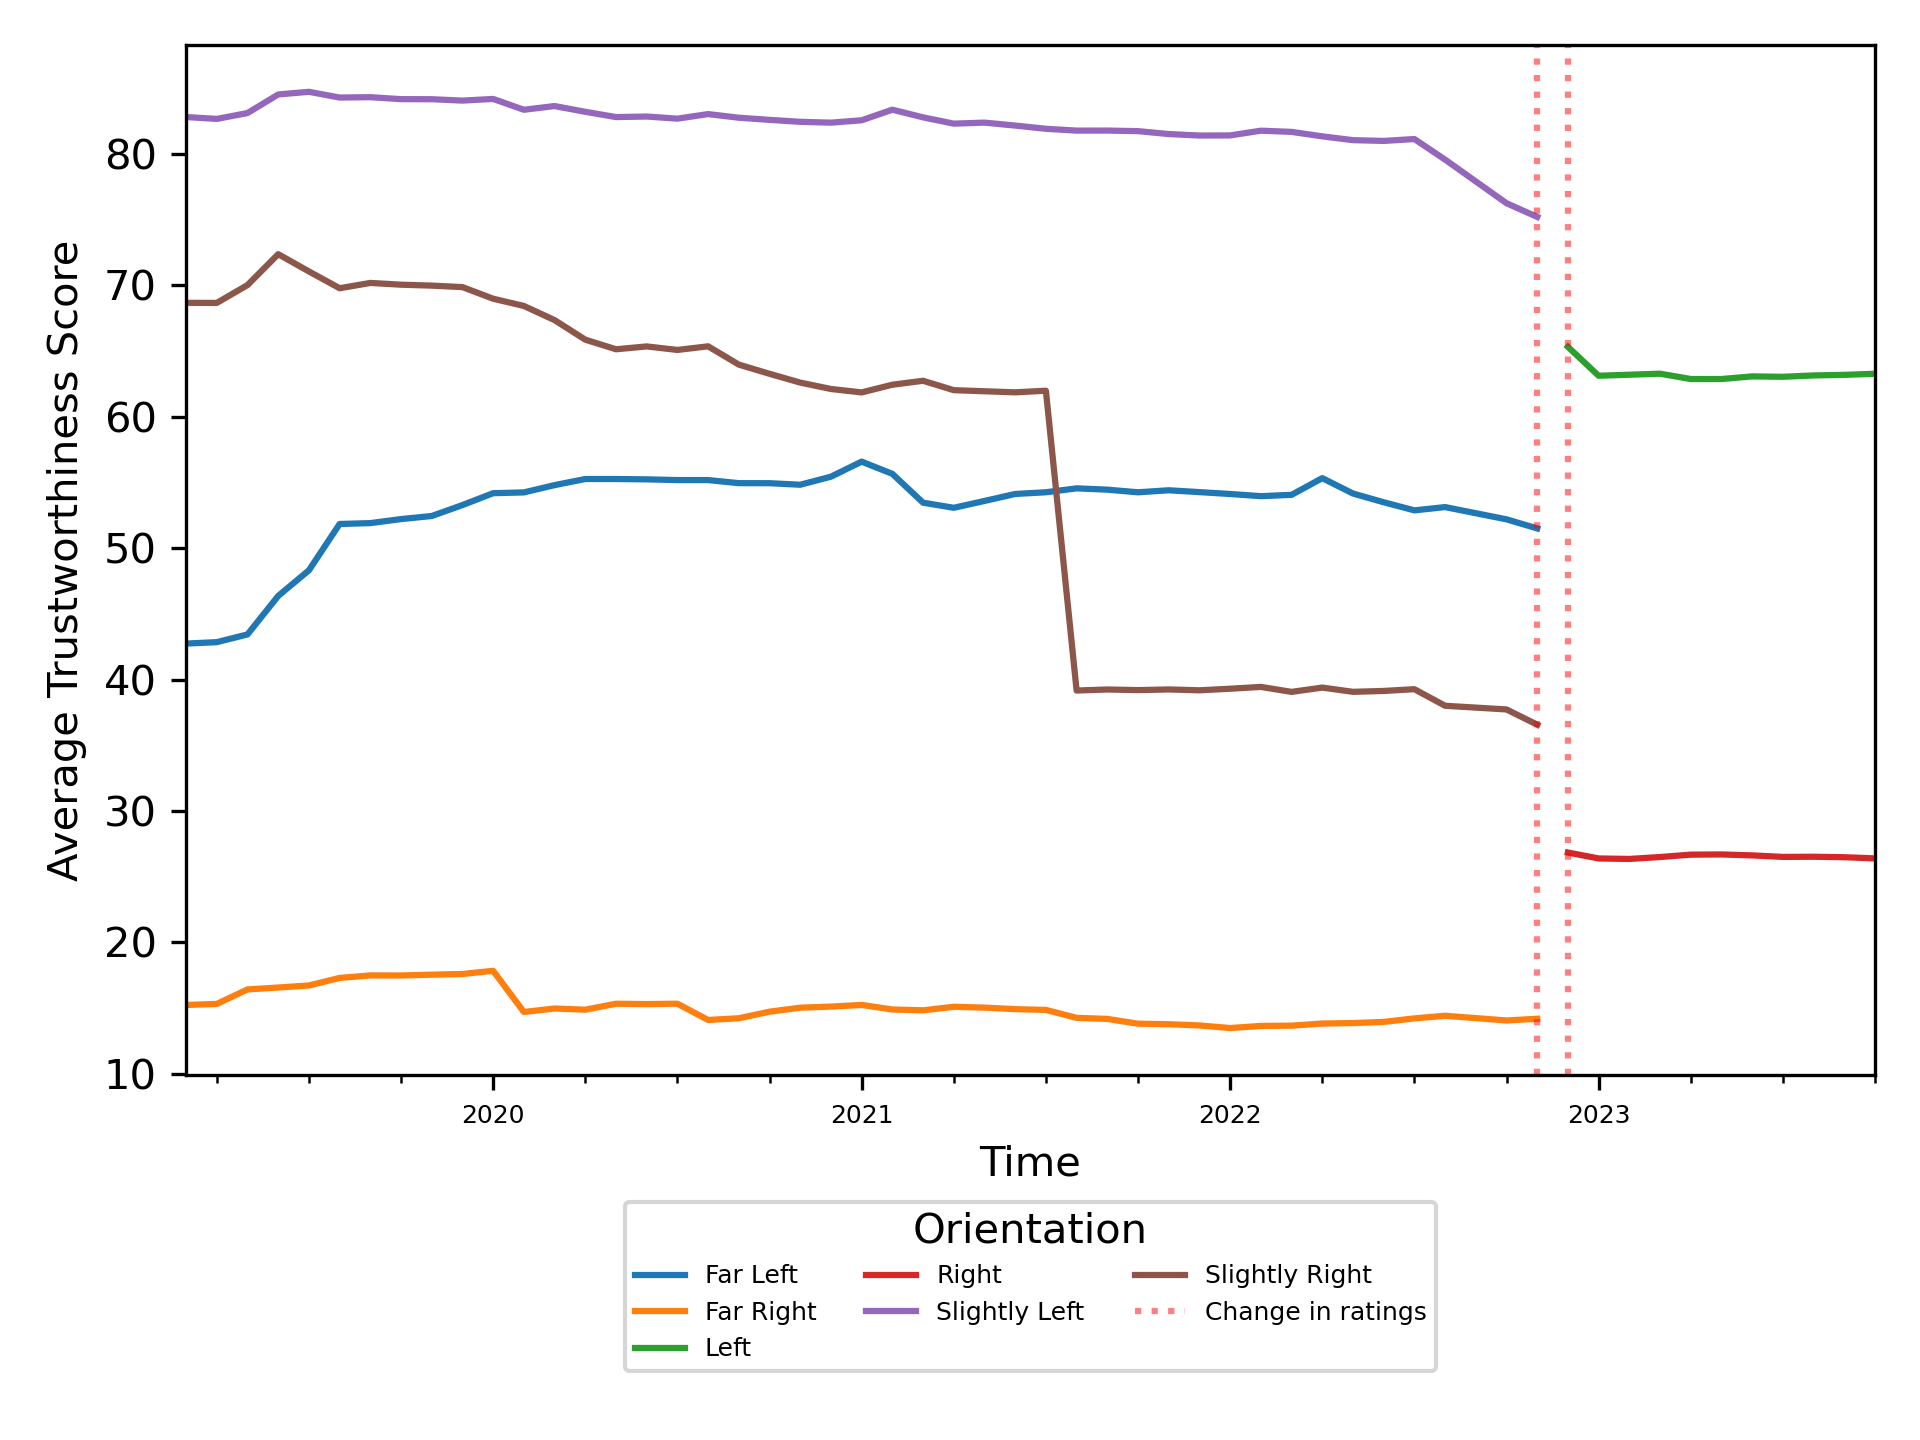
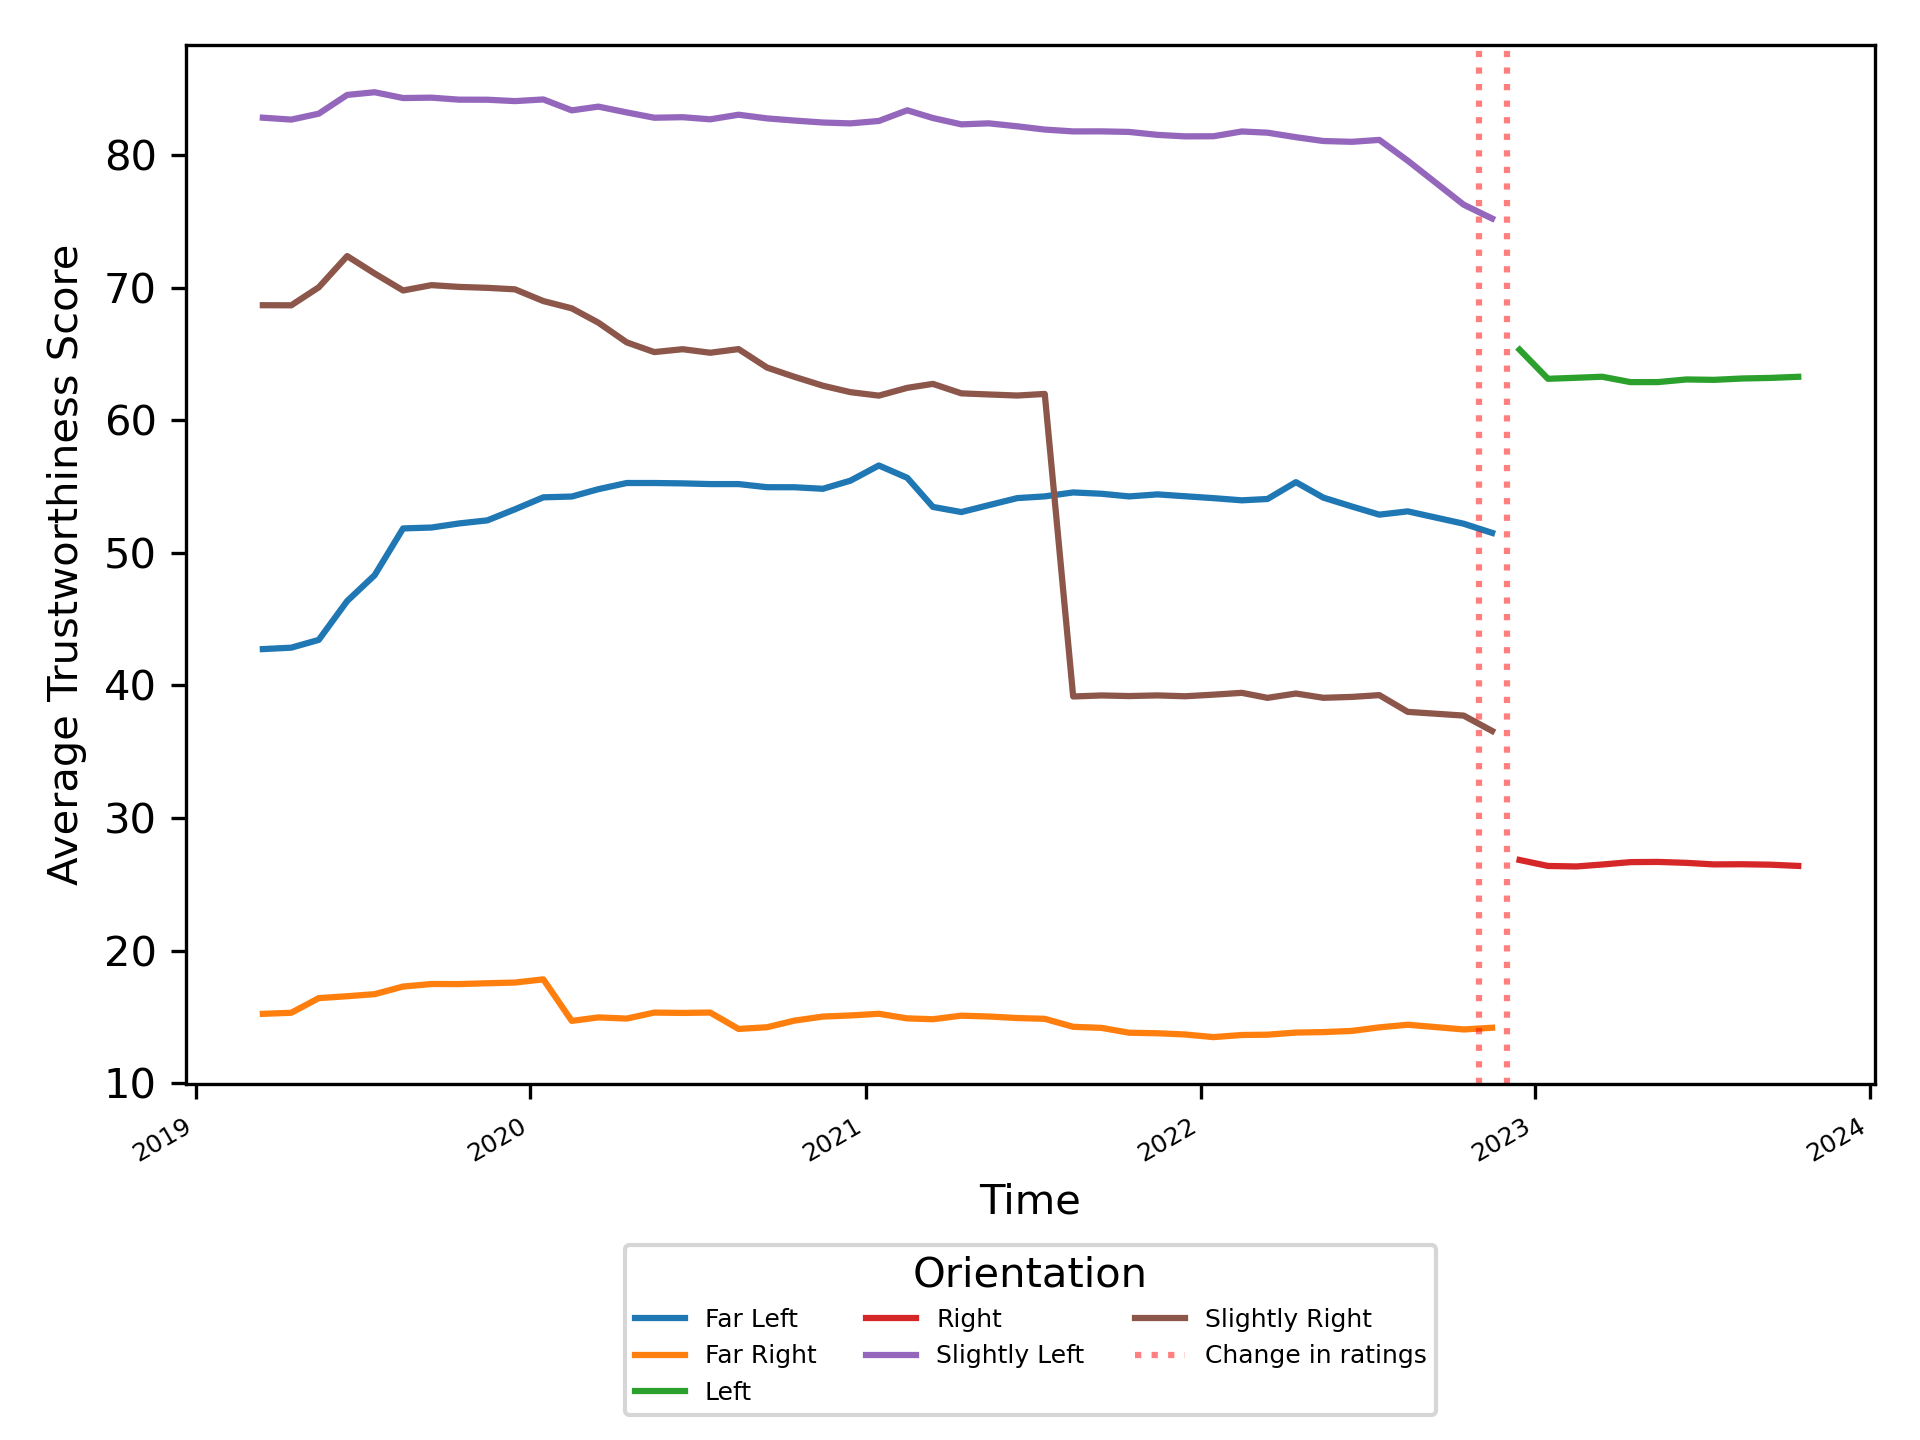
updates

diff --git a/tables/t3_orientation_countries.tex b/tables/t3_orientation_countries.tex
@@ -1,22 +1,22 @@
 \begin{table}[H]
 \centering
 \caption{\textbf{Orientation per country.}}
-\label{table:orientation_countries}
+\label{table:table3}
 \begin{tabularx}{\textwidth}{ X c c c }
 \toprule
-\textbf{Orientation} &         Left &         Right & With Orientation &     With Score &  Total n \\
-\textbf{Country} &              &               &                  &                &          \\
+\textbf{Orientation} &    Left (\%) &     Right (\%) & With Score (\%) &  Total n \\
+\textbf{Country} &             &               &                &          \\
 \midrule
-\textbf{FR     } &  35 (37.63\%) &   58 (62.37\%) &      93 (22.63\%) &   398 (96.84\%) &      411 \\
-\textbf{IT     } &  19 (25.68\%) &   55 (74.32\%) &      74 (14.23\%) &   512 (98.46\%) &      520 \\
-\textbf{DE     } &  10 (16.67\%) &   50 (83.33\%) &       60 (17.6\%) &   337 (98.83\%) &      341 \\
-\textbf{GB     } &  31 (54.39\%) &   26 (45.61\%) &       57 (10.8\%) &   522 (98.86\%) &      528 \\
-\textbf{NZ     } &    1 (25.0\%) &     3 (75.0\%) &       4 (22.22\%) &    18 (100.0\%) &       18 \\
-\textbf{US     } &  371 (13.1\%) &  2462 (86.9\%) &    2833 (38.73\%) &  6790 (92.84\%) &     7314 \\
-\textbf{AU     } &  10 (38.46\%) &   16 (61.54\%) &       26 (20.8\%) &    121 (96.8\%) &      125 \\
-\textbf{ALL    } &  64 (27.47\%) &  169 (72.53\%) &     233 (17.35\%) &  1327 (98.81\%) &     1343 \\
-\textbf{CA     } &   7 (31.82\%) &   15 (68.18\%) &       22 (4.85\%) &   451 (99.34\%) &      454 \\
-\textbf{AT     } &    2 (20.0\%) &     8 (80.0\%) &      10 (25.64\%) &    37 (94.87\%) &       39 \\
+\textbf{US     } &  371 (5.07) &  2462 (33.66) &   6790 (92.84) &     7314 \\
+\textbf{NZ     } &    1 (5.56) &     3 (16.67) &     18 (100.0) &       18 \\
+\textbf{IT     } &   19 (3.65) &    55 (10.58) &    512 (98.46) &      520 \\
+\textbf{GB     } &   31 (5.87) &     26 (4.92) &    522 (98.86) &      528 \\
+\textbf{FR     } &   35 (8.52) &    58 (14.11) &    398 (96.84) &      411 \\
+\textbf{DE     } &   10 (2.93) &    50 (14.66) &    337 (98.83) &      341 \\
+\textbf{CA     } &    7 (1.54) &      15 (3.3) &    451 (99.34) &      454 \\
+\textbf{AU     } &    10 (8.0) &     16 (12.8) &     121 (96.8) &      125 \\
+\textbf{AT     } &    2 (5.13) &     8 (20.51) &     37 (94.87) &       39 \\
+\textbf{ALL    } &   64 (4.77) &   169 (12.58) &   1327 (98.81) &     1343 \\
 \bottomrule
 \textit{Note.} In most recent database.
 \end{tabularx}
